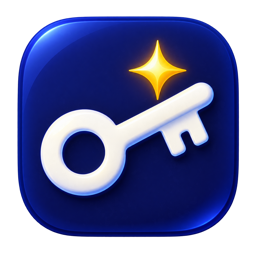
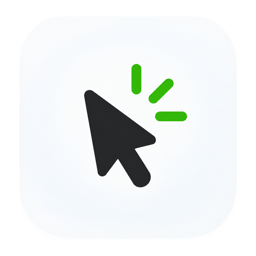
Drop old branding and highlight lightweight design

diff --git a/Rightly/ContentView.swift b/Rightly/ContentView.swift
@@ -68,7 +68,7 @@ struct ContentView: View {
     @State private var isShowingUninstallResult = false
     @State private var uninstallResultMessage = ""
     private let logger = Logger(subsystem: "com.rightly.app", category: "SettingsUI")
-    private let keySuperGreen = Color(red: 0.37, green: 0.72, blue: 0.21)
+    private let rightlyGreen = Color(red: 0.37, green: 0.72, blue: 0.21)
 
     var body: some View {
         VStack(spacing: 0) {
@@ -88,7 +88,7 @@ struct ContentView: View {
             .background(Color(nsColor: .windowBackgroundColor))
         }
         .groupBoxStyle(PreferenceGroupBoxStyle())
-        .tint(keySuperGreen)
+        .tint(rightlyGreen)
         .frame(minWidth: 520, idealWidth: 540, minHeight: 640, idealHeight: 760)
         .background(Color(nsColor: .windowBackgroundColor))
         .ignoresSafeArea(.container, edges: .top)
@@ -121,13 +121,13 @@ struct ContentView: View {
                                 .font(.system(size: 12, weight: .regular))
                                 .lineLimit(1)
                         }
-                        .foregroundStyle(selectedSection == section ? keySuperGreen : Color.secondary)
+                        .foregroundStyle(selectedSection == section ? rightlyGreen : Color.secondary)
                         .frame(width: 82, height: 56)
                         .background {
                             RoundedRectangle(cornerRadius: 9, style: .continuous)
                                 .fill(
                                     selectedSection == section
-                                        ? keySuperGreen.opacity(0.08)
+                                        ? rightlyGreen.opacity(0.08)
                                         : hoveredSection == section
                                             ? Color(nsColor: .separatorColor).opacity(0.12)
                                             : .clear
@@ -154,7 +154,7 @@ struct ContentView: View {
         HStack(spacing: 10) {
             Text(isFinderExtensionEnabled ? "已开启" : "未开启")
                 .font(.system(size: 12, weight: .medium))
-                .foregroundStyle(isFinderExtensionEnabled ? keySuperGreen : Color.secondary)
+                .foregroundStyle(isFinderExtensionEnabled ? rightlyGreen : Color.secondary)
 
             Button("管理…") {
                 showExtensionManagement()

diff --git a/README.md b/README.md
@@ -5,13 +5,13 @@
 <h1 align="center">Rightly（右点）</h1>
 
 <p align="center">
-  <b>A lightweight macOS Finder extension for creating new files from the right-click menu.</b><br>
-  在 Finder 中右键即可新建文件，支持自定义格式、模板与快捷操作。
+  <b>A lightweight, fast macOS Finder extension for creating new files from the right-click menu.</b><br>
+  ⚡ 极速 · 🪶 极轻量 —— 在 Finder 中右键即可新建文件，支持自定义格式、模板与快捷操作。
 </p>
 
 ---
 
-一个极轻量的 macOS Finder 右键新建文件工具。没有常驻菜单栏进程、数据库或网络请求——只在需要时出现。
+一个**资源占用极少、响应迅速**的 macOS Finder 右键新建文件工具。没有常驻菜单栏进程、数据库或网络请求——菜单即点即现，用完即隐。
 
 ## 功能特性
 
